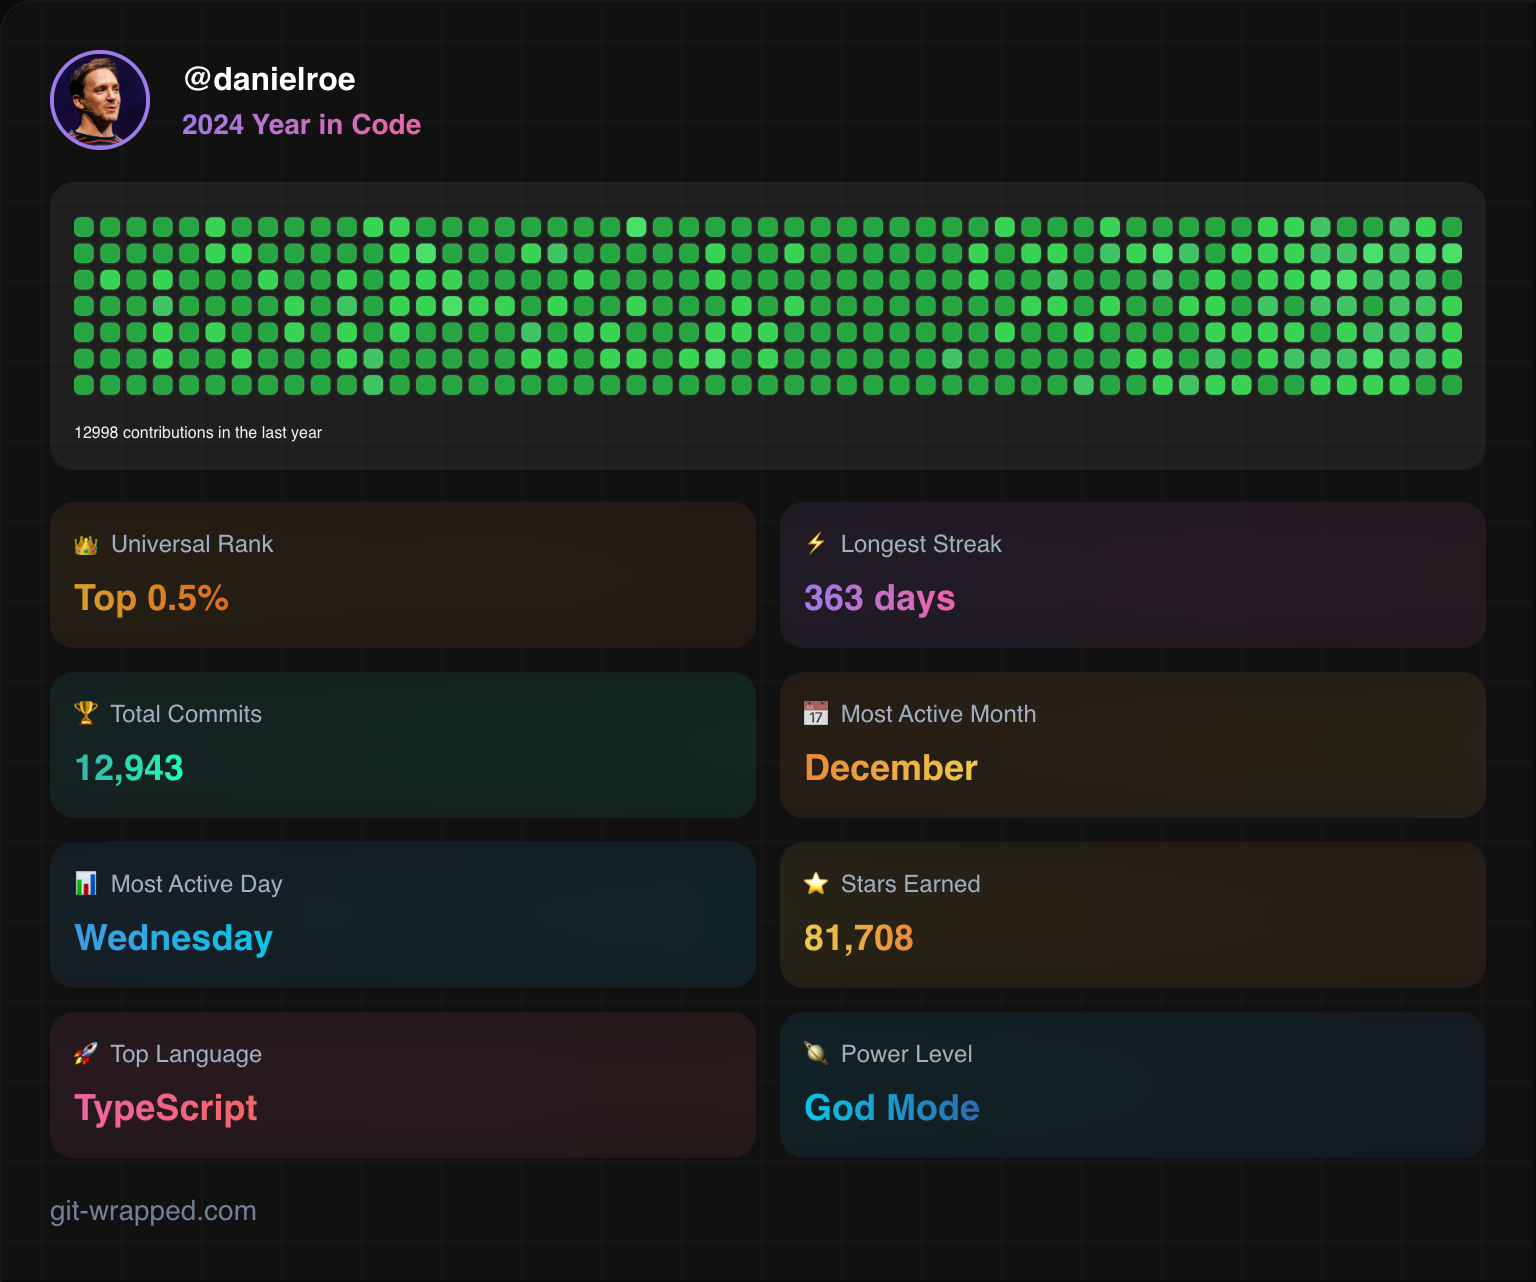
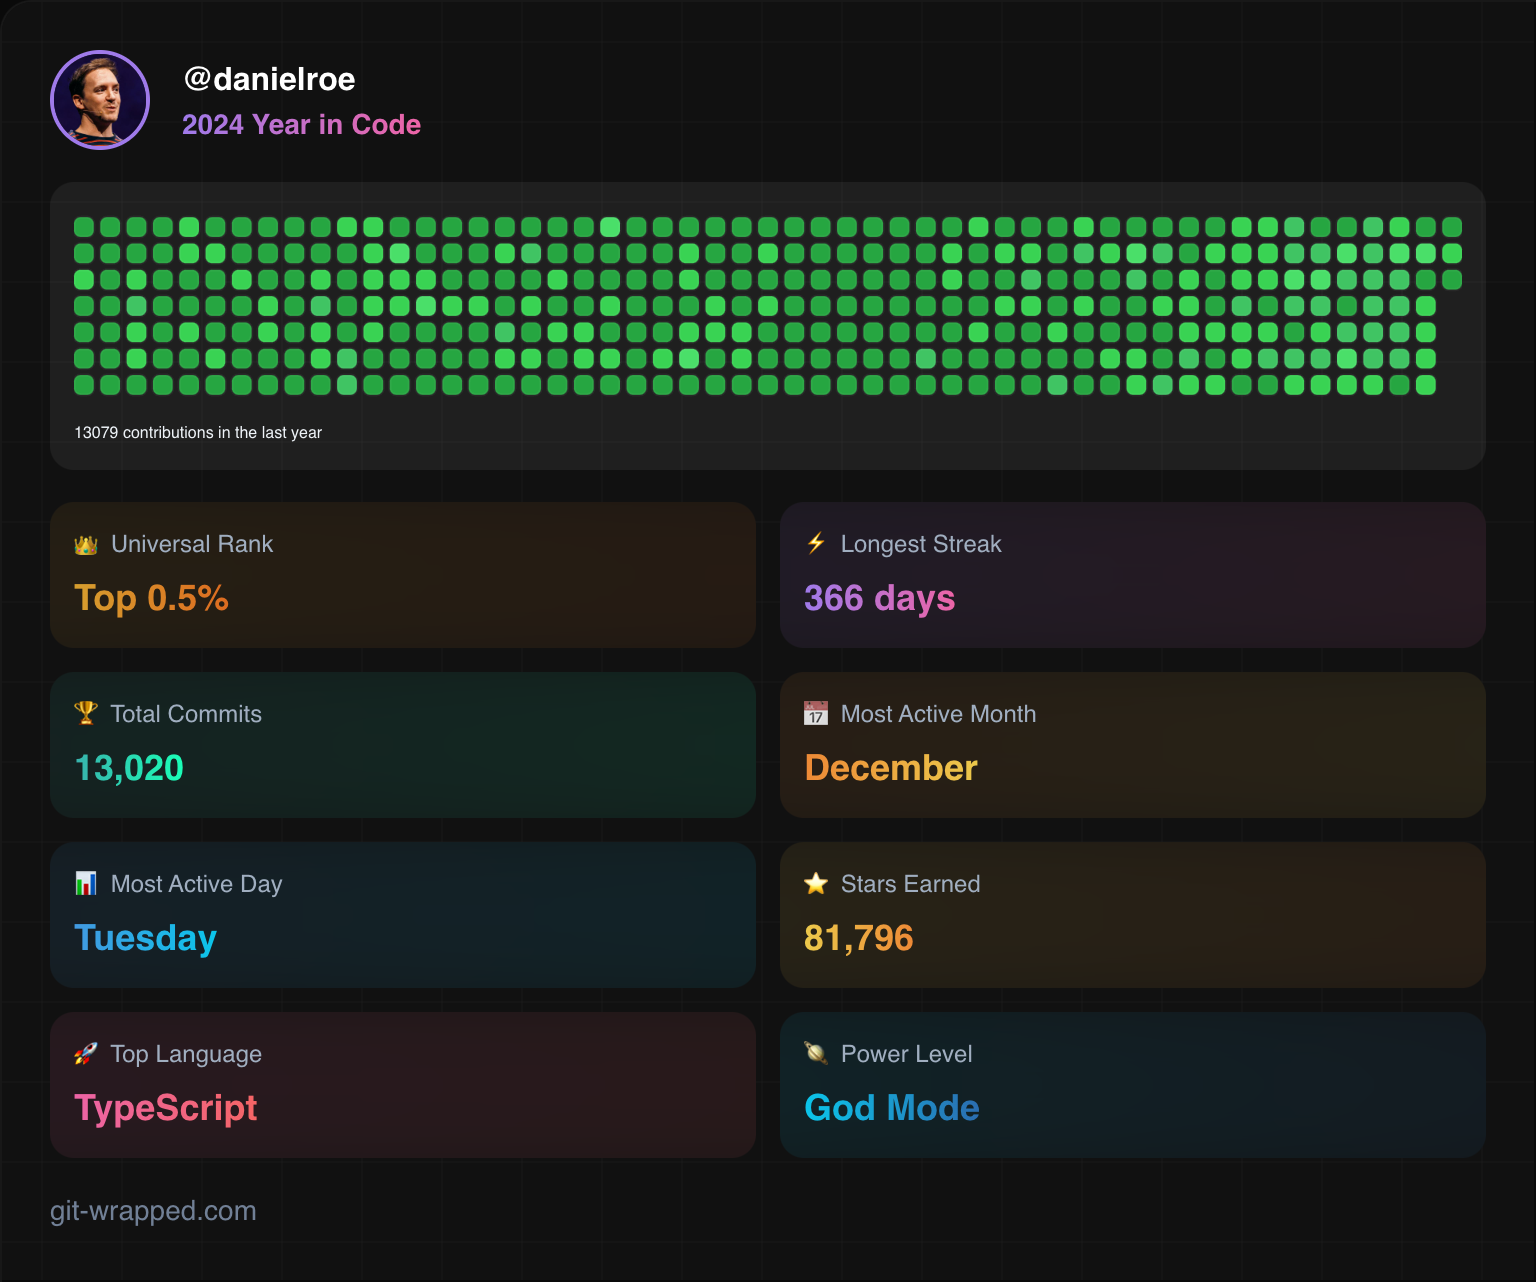
chore: last few updates

diff --git a/content/blog/today-is-your-day.md b/content/blog/today-is-your-day.md
@@ -59,7 +59,7 @@ That's a side-effect of doing something that I enjoy.
 
 <figure class="my-4">
 <a href="https://git-wrapped.com/profiles/danielroe">
-<img src="/img/today-is-your-day/git-wrapped.png" alt="Git Wrapped profile for @danielroe, showing my 2024 Year in Code, with 👑 Universal Rank: Top 0.5%, ⚡ Longest Streak: 364 days, 🏆 Total Commits: 13,003, 📅 Most Active Month: December, 📊 Most Active Day: Wednesday, ⭐ Stars Earned: 81,711, 🚀 Top Language: TypeScript, 🪐 Power Level: God Mode" height="1282" width="1536">
+<img src="/img/today-is-your-day/git-wrapped.png" alt="Git Wrapped profile for @danielroe, showing my 2024 Year in Code, with 👑 Universal Rank: Top 0.5%, ⚡ Longest Streak: 366 days, 🏆 Total Commits: 13,020, 📅 Most Active Month: December, 📊 Most Active Day: Tuesday, ⭐ Stars Earned: 81,796, 🚀 Top Language: TypeScript, 🪐 Power Level: God Mode" height="1282" width="1536">
 </a>
 
 <figcaption class="text-xs">
@@ -123,8 +123,9 @@ I don't particularly want to write about them here, but for me it's important th
 
 ## And YOU are the one who’ll decide where to go
 
-I'm optimistic about the future. I don't know exactly what it will hold, of course - but let's surf the chaos together. Here's to another year of joy and love, friendship and fun! 🍻
+To finish with a few more words from [the poem](https://www.amazon.co.uk/PLACES-YOULL-GO_DR-SEUSS-illustrated/dp/0007413572) that's inspired the title and headings of this post:
 
 > You have brains in your head. You have feet in your shoes. You can steer yourself any direction you choose.
 
-<small>headings from <a href="https://www.amazon.co.uk/PLACES-YOULL-GO_DR-SEUSS-illustrated/dp/0007413572"><em>Oh, The Places You'll Go!</em></a>  by Dr Seuss</small>
+
+I'm optimistic about the future. I don't know exactly what it will hold, of course - but let's surf the chaos together. Here's to another year of joy and love, friendship and fun! 🍻
